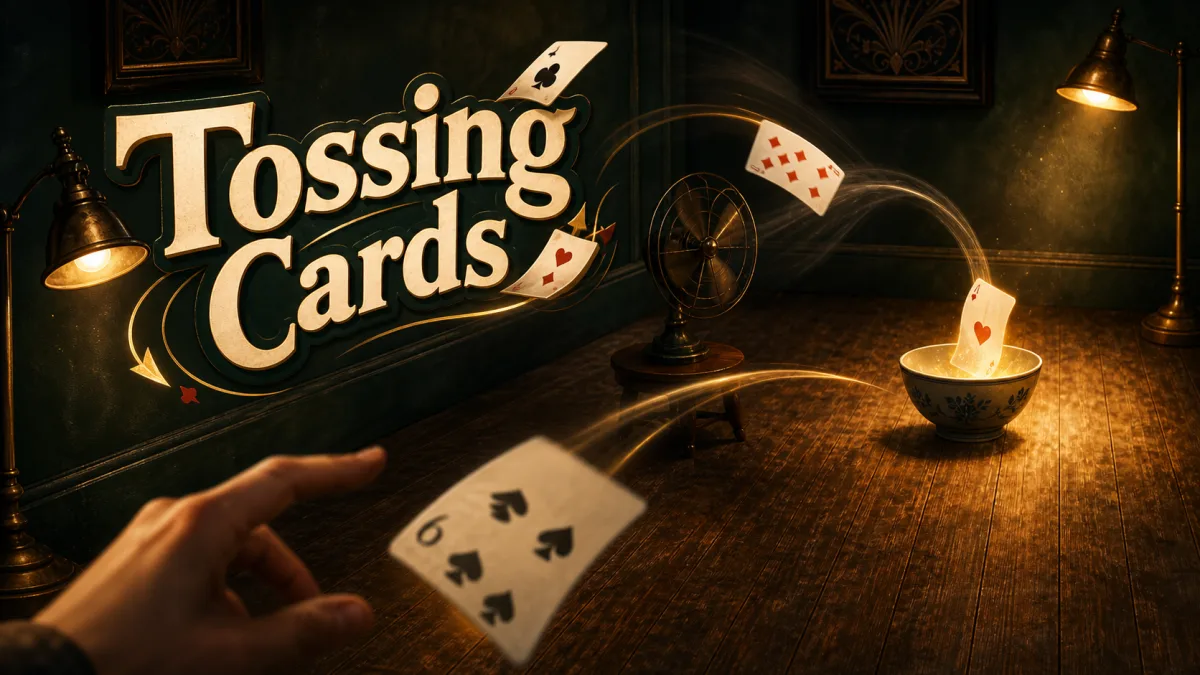
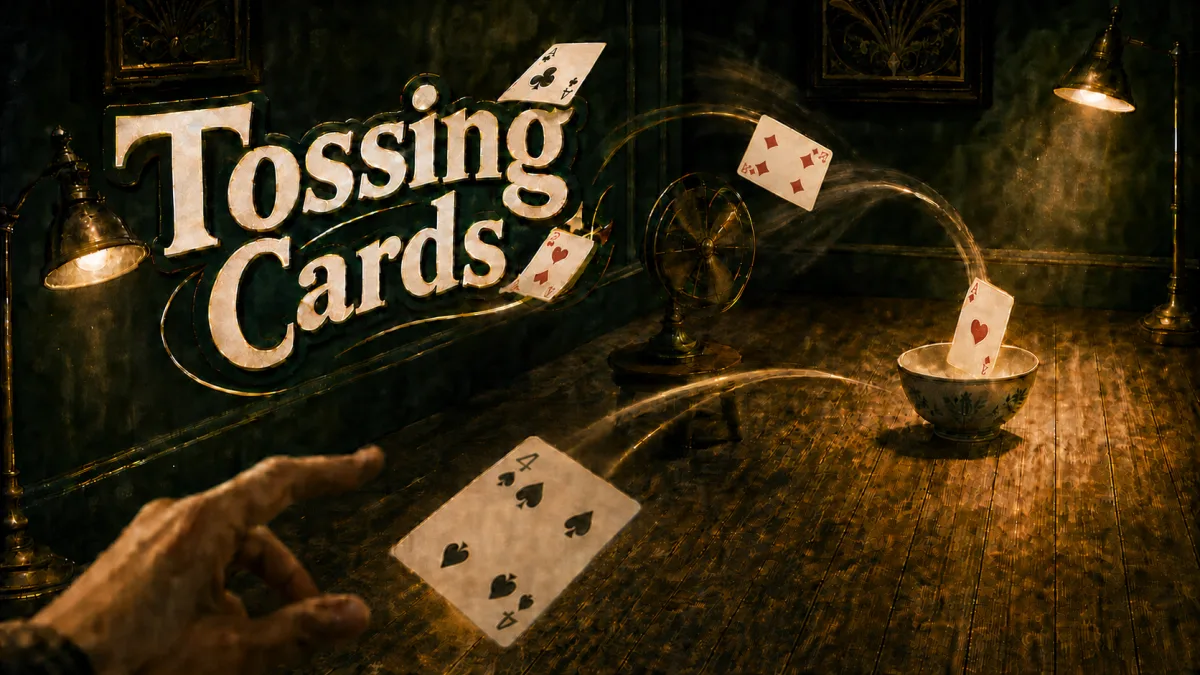
Featured art: new Tossing Cards piece
Replaces the previous one. The new art is a dim parlour with the cards
arcing into the bowl, which is what the toy actually is.

Because the featured URLs share one version string, a replacement means the
cache-bust has to move for all of them: ?v=2 -> ?v=3. Leaving it alone would
have left anyone holding the old file looking at the old art indefinitely.

diff --git a/assets/main.js b/assets/main.js
@@ -1294,7 +1294,7 @@ function renderHomeHero() {
       prev.removeAttribute("data-slug");
       prev.classList.add("card__preview--art");
       prev.style.background =
-        '#07070b url("/assets/featured/' + t.slug + '.webp?v=2") center / cover no-repeat';
+        '#07070b url("/assets/featured/' + t.slug + '.webp?v=3") center / cover no-repeat';
       // the art carries the toy's own logo, so the heading would just repeat it:
       // keep it for screen readers only and let the panel re-space itself
       sec.classList.add("home-featured--art");

diff --git a/all-toys/audio/index.html b/all-toys/audio/index.html
@@ -295,7 +295,7 @@
       </div>
     </footer>
 
-    <script src="../../assets/main.js?v=104" defer></script>
+    <script src="../../assets/main.js?v=105" defer></script>
     <script src="../../assets/theme.js?v=8" defer></script>
     <script src="../../assets/tickets.js?v=21" defer></script>
     <script src="../../assets/prizes.js?v=1" defer></script>

diff --git a/all-toys/game/index.html b/all-toys/game/index.html
@@ -295,7 +295,7 @@
       </div>
     </footer>
 
-    <script src="../../assets/main.js?v=104" defer></script>
+    <script src="../../assets/main.js?v=105" defer></script>
     <script src="../../assets/theme.js?v=8" defer></script>
     <script src="../../assets/tickets.js?v=21" defer></script>
     <script src="../../assets/prizes.js?v=1" defer></script>

diff --git a/all-toys/simulation/index.html b/all-toys/simulation/index.html
@@ -295,7 +295,7 @@
       </div>
     </footer>
 
-    <script src="../../assets/main.js?v=104" defer></script>
+    <script src="../../assets/main.js?v=105" defer></script>
     <script src="../../assets/theme.js?v=8" defer></script>
     <script src="../../assets/tickets.js?v=21" defer></script>
     <script src="../../assets/prizes.js?v=1" defer></script>

diff --git a/all-toys/utility/index.html b/all-toys/utility/index.html
@@ -295,7 +295,7 @@
       </div>
     </footer>
 
-    <script src="../../assets/main.js?v=104" defer></script>
+    <script src="../../assets/main.js?v=105" defer></script>
     <script src="../../assets/theme.js?v=8" defer></script>
     <script src="../../assets/tickets.js?v=21" defer></script>
     <script src="../../assets/prizes.js?v=1" defer></script>

diff --git a/all-toys/visual/index.html b/all-toys/visual/index.html
@@ -295,7 +295,7 @@
       </div>
     </footer>
 
-    <script src="../../assets/main.js?v=104" defer></script>
+    <script src="../../assets/main.js?v=105" defer></script>
     <script src="../../assets/theme.js?v=8" defer></script>
     <script src="../../assets/tickets.js?v=21" defer></script>
     <script src="../../assets/prizes.js?v=1" defer></script>

diff --git a/all-toys/wellness/index.html b/all-toys/wellness/index.html
@@ -295,7 +295,7 @@
       </div>
     </footer>
 
-    <script src="../../assets/main.js?v=104" defer></script>
+    <script src="../../assets/main.js?v=105" defer></script>
     <script src="../../assets/theme.js?v=8" defer></script>
     <script src="../../assets/tickets.js?v=21" defer></script>
     <script src="../../assets/prizes.js?v=1" defer></script>

diff --git a/all-toys/index.html b/all-toys/index.html
@@ -295,7 +295,7 @@
       </div>
     </footer>
 
-    <script src="../assets/main.js?v=104" defer></script>
+    <script src="../assets/main.js?v=105" defer></script>
     <script src="../assets/theme.js?v=8" defer></script>
     <script src="../assets/tickets.js?v=21" defer></script>
     <script src="../assets/prizes.js?v=1" defer></script>

diff --git a/index.html b/index.html
@@ -289,7 +289,7 @@
       </div>
     </footer>
 
-    <script src="assets/main.js?v=104" defer></script>
+    <script src="assets/main.js?v=105" defer></script>
     <script src="assets/theme.js?v=8" defer></script>
     <script src="assets/tickets.js?v=21" defer></script>
     <script src="assets/prizes.js?v=1" defer></script>
